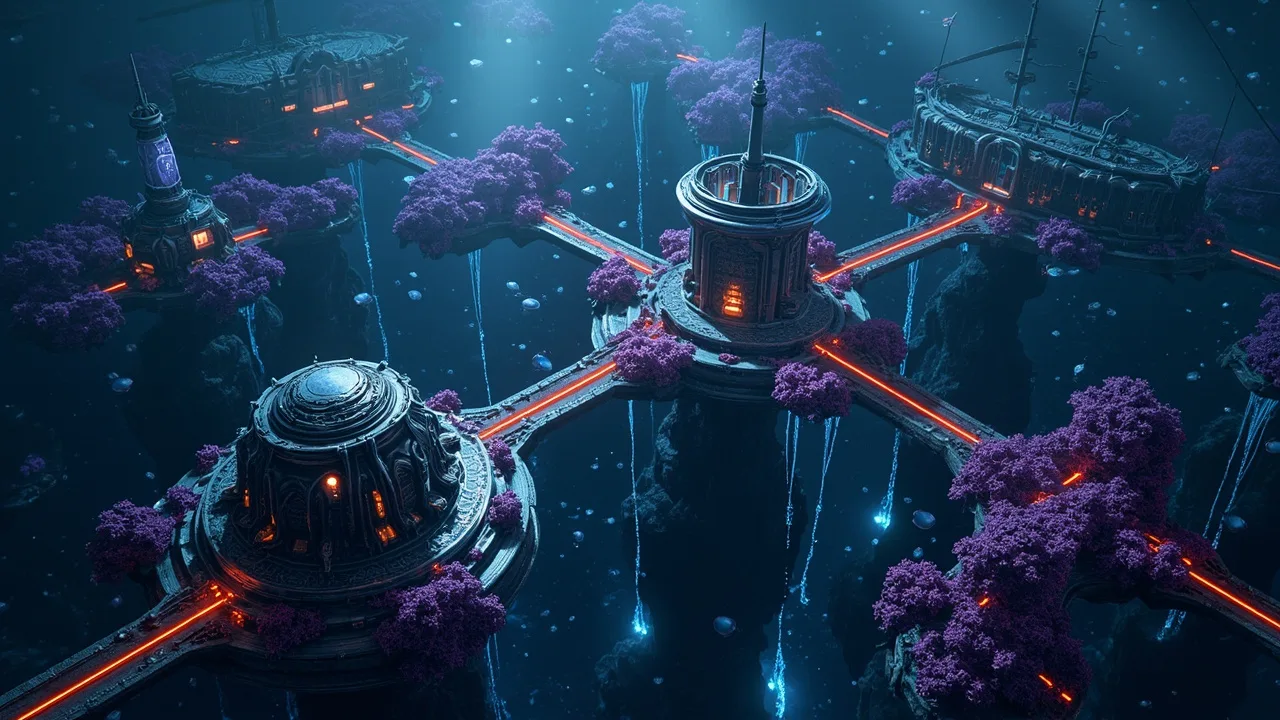
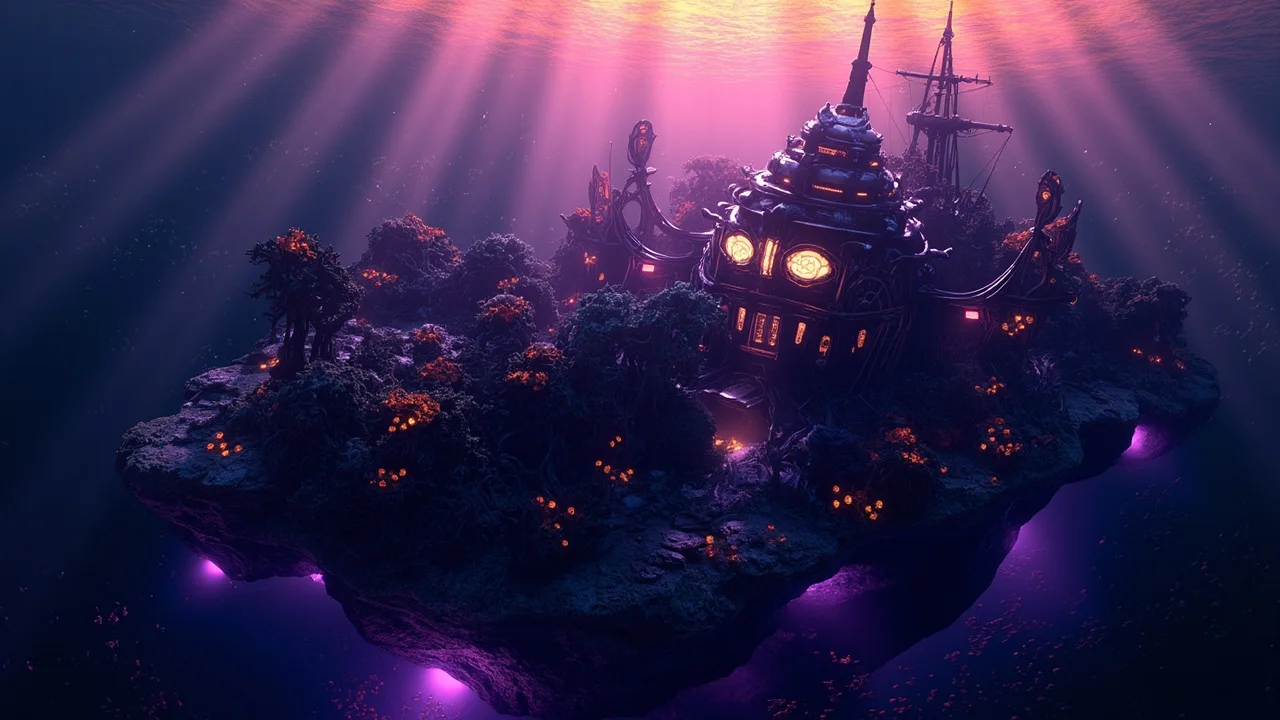
Weltmaster steht: unter Wasser, Farbe der Referenz, ganze Insel im Bild
Die Ursache des Auftauchens war ein einzelnes Wort. Der Stilblock sagte
'a warm orange glow like a sunset seen through water' — ein Sonnenuntergang
ist per Definition ueber Wasser, und das Modell hat die Szene zweimal
entsprechend an die Oberflaeche geholt. Ersetzt durch 'the sun seen from far
below through the surface of the sea': gleiche Waerme, verankerte Tiefe.
Dieselbe Lehre wie beim Libellenfilm — die Ursache lag nicht in der Farbe,
sondern in einem Wort, das eine Welt mitbringt. Stilblock v1.3.

Danach die fuenf Orte raeumlich verankert (far left / centre / near right /
behind) statt nur aufgezaehlt. Ergebnis: ganze Insel im Bild, Dreiviertelblick
von oben, Tangwald links, Kuppelhalle Mitte, Schiffsmasten rechts, Spire oben.

Beim letzten Lauf stuerzte die CLI beim Empfangen ab. Der Lauf war
serverseitig fertig und bezahlt — ueber 'monid runs get' geborgen statt ein
zweites Mal zu bezahlen.

Bisher 0,049 USD. Videos nicht gestartet.

diff --git a/production/global-style.md b/production/global-style.md
@@ -4,7 +4,17 @@
 nicht „verbessert", nicht gekürzt. Jede Änderung ist eine bewusste Entscheidung
 und braucht eine neue Versionsnummer sowie einen Eintrag im Ledger.
 
-Version: `1.2` · angelegt 05.08.2026 · zuletzt geändert 05.08.2026
+Version: `1.3` · angelegt 05.08.2026 · zuletzt geändert 05.08.2026
+
+**Änderung 1.2 → 1.3 (Fehlerkorrektur, real zweimal passiert):** 1.2 verlangte
+„a warm orange glow far in the background **like a sunset seen through water**".
+Ein Sonnenuntergang ist per Definition über Wasser — das Modell hat die Szene
+daraufhin beide Male an die Oberfläche geholt, samt Horizont und schwimmendem
+Schiff. Die Wärme kommt jetzt **von der Sonne, von unten gesehen, durch die
+Wasseroberfläche weit über der Szene**. Gleiche Farbe, verankerte Tiefe.
+
+Das ist dieselbe Lehre wie beim Libellenfilm: **Die Ursache lag nicht in der
+Farbe, sondern in einem Wort, das eine Welt mitbringt.**
 
 **Änderung 1.1 → 1.2 (bewusst, nach dem Farbreferenzbild „blühender Ast im
 Abendlicht"):** Die Welt war zu kalt — Indigo und Blaugrün dominierten. Die
@@ -48,7 +58,7 @@ Szene passt dort nicht hinein. Diese Fassung ist keine Neuformulierung, sondern
 eine Kürzung mit **denselben verbindlichen Begriffen** aus der Farbwelt-Tabelle:
 
 ```
-Richly detailed painterly 3D illustration of an underwater world, dark and jewel-like. Deep violet and magenta throughout, with a warm orange glow far in the background like a sunset seen through water, backlighting the whole scene and rimming the top edges of every structure in warm light. Ornate forms grown from violet coral and kelp, with filigree domes, arched ribs and wrought detail. Small orange blossoms and tiny lit windows are scattered as warm accents. Bioluminescent life drifts through the water. Volumetric haze, soft god rays, wet reflections, fine drifting particles, cinematic lighting, high contrast between deep violet shadow and warm glow. Full bleed. No text, no letters, no logos, no signage, no neon cyberpunk look, no black bars, no letterboxing.
+Richly detailed painterly 3D illustration set deep underwater, dark and jewel-like. Deep violet and magenta throughout. Far above the scene the sea surface glows warm orange, the sun seen from far below through the water, its light falling down in long shafts, backlighting everything and rimming the top edges of every structure in warm light. Ornate forms grown from violet coral and kelp, with filigree domes, arched ribs and wrought detail. Small orange blossoms and tiny lit windows are scattered as warm accents. Bioluminescent life drifts through the water. Volumetric haze, soft god rays, wet reflections, fine drifting particles, cinematic lighting, high contrast between deep violet shadow and warm glow. Full bleed. No text, no letters, no logos, no signage, no neon cyberpunk look, no black bars, no letterboxing.
 ```
 
 **`prompt_optimizer` muss `false` sein.** Sonst schreibt Minimax den Stil um —

diff --git a/production/scenes/00-world-master.md b/production/scenes/00-world-master.md
@@ -21,5 +21,5 @@ Körperfarbe, warmer oranger Schein dahinter.
 
 ## SCENE_DESCRIPTION
 ```
-One entire great floating reef plateau, complete and fully visible inside the frame, seen from above at a three-quarter angle, surrounded by deep violet water with a warm orange glow far behind it. A tall forest of kelp and algae rises from the left half of the plateau, and a narrow slot canyon cuts into the reef floor between the stems. In the centre a large domed coral hall with glowing windows. On the right edge a great sunken sailing ship with masts. Behind the hall a slender observatory tower with a thin beam of light. Violet and magenta corals cover the plateau, small orange blossoms among them, and violet light falls away from its underside into the dark.
+Seen from high above at a three-quarter angle, the entire floating reef island fits inside the frame with open dark water all around it. Far left: a tall forest of kelp and algae. Cutting through that forest: a narrow canyon down into the rock. Centre: a domed coral hall with glowing windows. Near right: a great sunken sailing ship with masts lying across the island's edge. Behind the hall: a slender observatory tower with a thin beam of light. Violet and magenta corals with small orange blossoms cover everything, and violet light falls from the island's underside into the darkness below.
 ```
